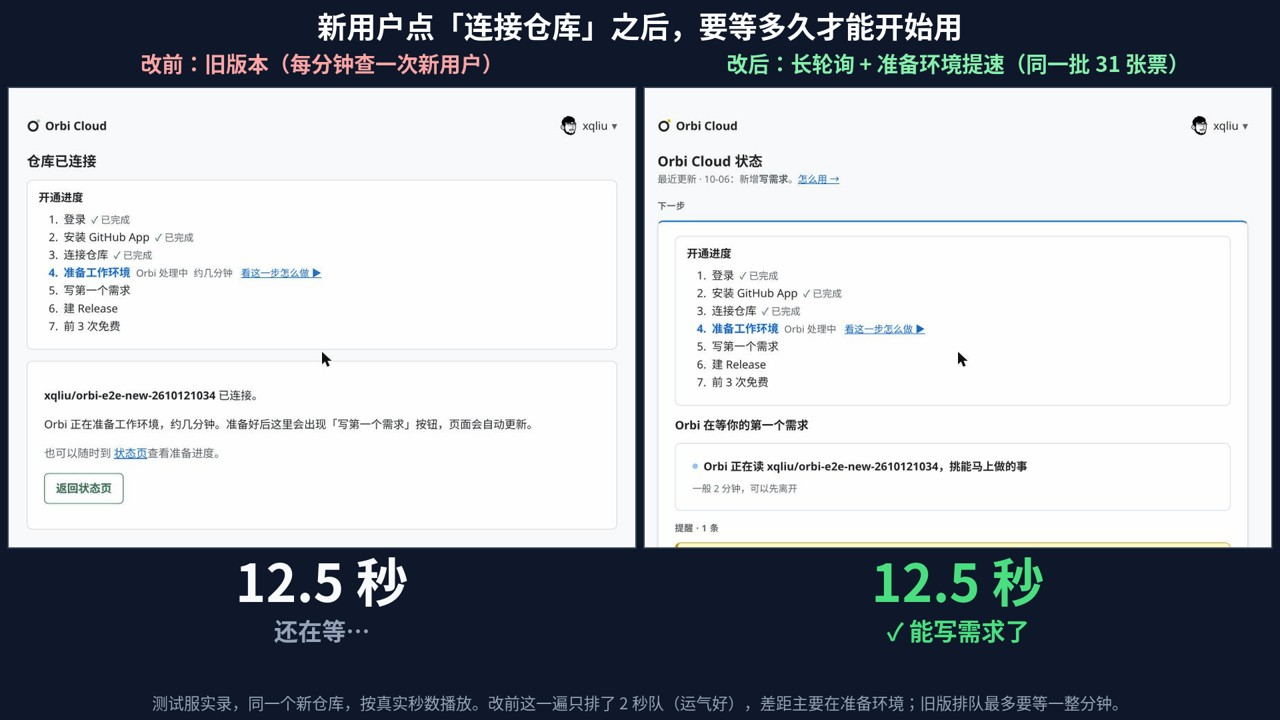
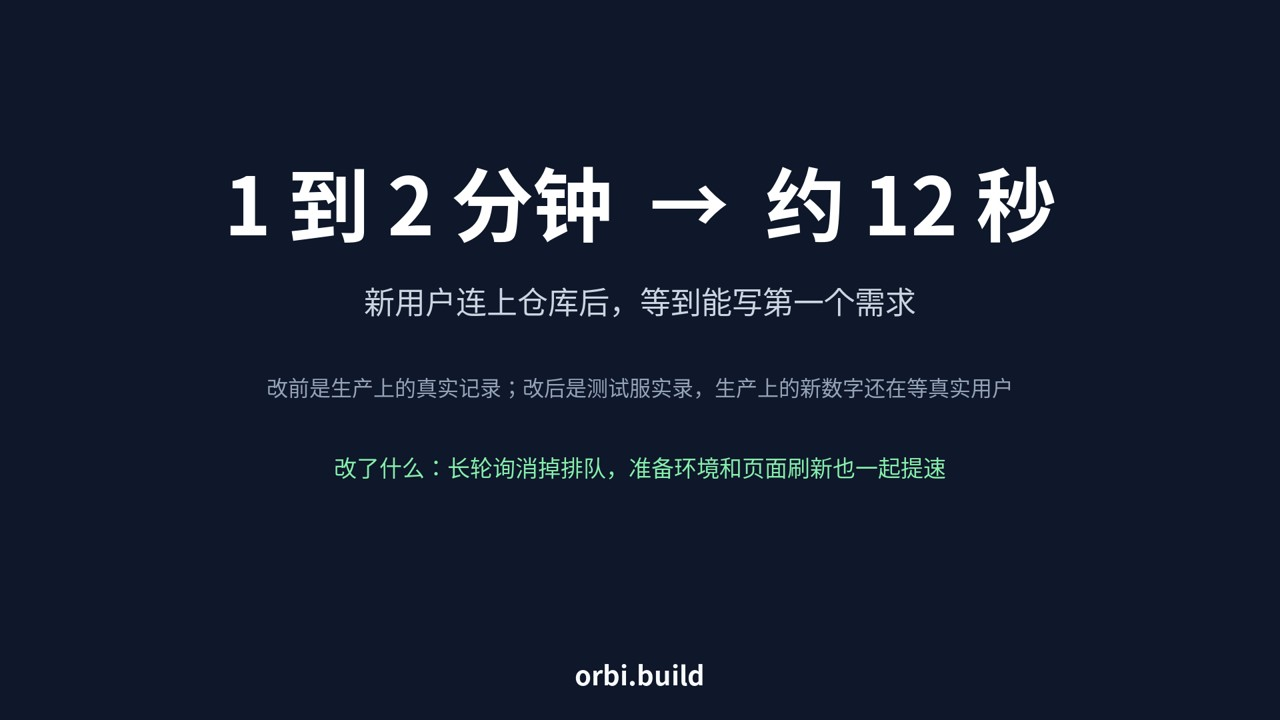
博文：改前改用生产记录（1 到 2 分钟），换第三版视频，中文标题去掉「干等」

diff --git a/public/zh/blog/long-polling-new-user-wait/index.html b/public/zh/blog/long-polling-new-user-wait/index.html
@@ -3,21 +3,21 @@
 <head>
   <meta charset="utf-8">
   <meta name="viewport" content="width=device-width, initial-scale=1">
-  <title>新用户干等从 2 分钟压到 10 秒：长轮询，没加一台机器 | Orbi</title>
+  <title>新用户连上仓库要等一两分钟，我们压到 10 秒：长轮询，没加一台机器 | Orbi</title>
   <meta name="description" content="有个用户在环境已经准备好之后走了，因为页面还没告诉他。我们改用长轮询消掉排队，再抠掉几处准备时间：以前要等一两分钟，现在测试环境上 10 秒左右，机器一台没加。">
   <link rel="canonical" href="https://orbi.build/zh/blog/long-polling-new-user-wait/">
   <link rel="alternate" hreflang="en" href="https://orbi.build/blog/long-polling-new-user-wait/">
   <link rel="alternate" hreflang="zh-CN" href="https://orbi.build/zh/blog/long-polling-new-user-wait/">
   <link rel="alternate" hreflang="x-default" href="https://orbi.build/blog/long-polling-new-user-wait/">
   <meta property="og:type" content="article">
-  <meta property="og:title" content="新用户干等从 2 分钟压到 10 秒：长轮询，没加一台机器">
+  <meta property="og:title" content="新用户连上仓库要等一两分钟，我们压到 10 秒：长轮询，没加一台机器">
   <meta property="og:description" content="有个用户在环境已经准备好之后走了，因为页面还没告诉他。我们改用长轮询消掉排队，再抠掉几处准备时间：以前要等一两分钟，现在测试环境上 10 秒左右，机器一台没加。">
   <meta property="og:url" content="https://orbi.build/zh/blog/long-polling-new-user-wait/">
   <meta property="og:image" content="https://orbi.build/img/blog-longpoll-card.png">
-  <meta property="og:image:alt" content="新用户干等从 2 分钟压到 10 秒：长轮询，没加一台机器">
+  <meta property="og:image:alt" content="新用户连上仓库要等一两分钟，我们压到 10 秒：长轮询，没加一台机器">
   <meta property="article:published_time" content="2026-10-12">
-  <script type="application/ld+json">{"@context":"https://schema.org","@type":"Article","headline":"新用户干等从 2 分钟压到 10 秒：长轮询，没加一台机器","datePublished":"2026-10-12","author":{"@type":"Person","name":"Lawrence Liu","url":"https://orbi.build/zh/about/lawrence-liu/","sameAs":["https://github.com/xqliu","https://x.com/xqliu"]},"publisher":{"@type":"Organization","name":"Orbi","url":"https://orbi.build/","logo":{"@type":"ImageObject","url":"https://orbi.build/logo-mark.svg"}},"mainEntityOfPage":"https://orbi.build/zh/blog/long-polling-new-user-wait/","image":"https://orbi.build/img/blog-longpoll-card.png","inLanguage":"zh-CN","description":"有个用户在环境已经准备好之后走了，因为页面还没告诉他。我们改用长轮询消掉排队，再抠掉几处准备时间：以前要等一两分钟，现在测试环境上 10 秒左右，机器一台没加。","url":"https://orbi.build/zh/blog/long-polling-new-user-wait/"}</script>
-  <script type="application/ld+json">{"@context":"https://schema.org","@type":"VideoObject","name":"新用户等多久：改前约 30 秒，改后约 12 秒｜Orbi Cloud 长轮询实录","description":"左边旧版本，主机每分钟才查一次新用户；右边是同一批 31 张票之后的版本，长轮询消掉排队，准备环境和页面刷新也一起提速。同一个全新仓库，测试服实录，按真实秒数播放：约 30 秒对约 12 秒。","thumbnailUrl":"https://orbi.build/img/blog-longpoll-video-zh.jpg","uploadDate":"2026-10-12","duration":"PT39S","embedUrl":"https://www.youtube.com/embed/bN8amYpOo8c"}</script>
+  <script type="application/ld+json">{"@context":"https://schema.org","@type":"Article","headline":"新用户连上仓库要等一两分钟，我们压到 10 秒：长轮询，没加一台机器","datePublished":"2026-10-12","author":{"@type":"Person","name":"Lawrence Liu","url":"https://orbi.build/zh/about/lawrence-liu/","sameAs":["https://github.com/xqliu","https://x.com/xqliu"]},"publisher":{"@type":"Organization","name":"Orbi","url":"https://orbi.build/","logo":{"@type":"ImageObject","url":"https://orbi.build/logo-mark.svg"}},"mainEntityOfPage":"https://orbi.build/zh/blog/long-polling-new-user-wait/","image":"https://orbi.build/img/blog-longpoll-card.png","inLanguage":"zh-CN","description":"有个用户在环境已经准备好之后走了，因为页面还没告诉他。我们改用长轮询消掉排队，再抠掉几处准备时间：以前要等一两分钟，现在测试环境上 10 秒左右，机器一台没加。","url":"https://orbi.build/zh/blog/long-polling-new-user-wait/"}</script>
+  <script type="application/ld+json">{"@context":"https://schema.org","@type":"VideoObject","name":"新用户连上仓库要等多久：改前 1 到 2 分钟，改后约 12 秒｜Orbi Cloud","description":"开头是改前：生产上的真实记录，新用户连上仓库后一般要等 1 分钟左右，最慢 2 分多钟，页面上只有一句「约几分钟」。后面是改后在测试服上的实录，按真实秒数播放：约 12 秒就能写第一个需求。","thumbnailUrl":"https://orbi.build/img/blog-longpoll-video-zh.jpg","uploadDate":"2026-10-12","duration":"PT43S","embedUrl":"https://www.youtube.com/embed/JLmbpUKHCGY"}</script>
   <link rel="icon" href="/favicon.svg" type="image/svg+xml">
   <meta name="theme-color" content="#06151b">
 
@@ -153,7 +153,7 @@
       <div class="post-grid">
         <section class="post-hero" aria-labelledby="post-title">
           <p class="eyebrow">博客</p>
-          <h1 id="post-title">新用户干等从 2 分钟压到 10 秒：长轮询，没加一台机器</h1>
+          <h1 id="post-title">新用户连上仓库要等一两分钟，我们压到 10 秒：长轮询，没加一台机器</h1>
           <p class="post-byline"><a href="/zh/about/lawrence-liu/">Lawrence Liu</a> · <time datetime="2026-10-12">2026-10-12</time></p>
 
           <p class="hero-lede">有个用户在环境已经准备好之后走了，因为页面还没告诉他。我们改用长轮询消掉排队，再抠掉几处准备时间：以前要等一两分钟，现在测试环境上 10 秒左右，机器一台没加。</p>
@@ -168,7 +168,7 @@
           <li><a class="post-toc-link" href="#先拆开看-时间到底花在哪">先拆开看，时间到底花在哪</a></li>
           <li><a class="post-toc-link" href="#新用户排在一个刷新任务后面">新用户排在一个刷新任务后面</a></li>
           <li><a class="post-toc-link" href="#从-问得更勤-到长轮询">从「问得更勤」到长轮询</a></li>
-          <li><a class="post-toc-link" href="#一句-能不能再薄一点-删掉了一个程序">一句「能不能再薄一点」，删掉了一个程序</a></li>
+          <li><a class="post-toc-link" href="#给开通脚本加一个开关-不再新写程序">给开通脚本加一个开关，不再新写程序</a></li>
           <li><a class="post-toc-link" href="#审查早就提醒过的-bug">审查早就提醒过的 bug</a></li>
           <li><a class="post-toc-link" href="#剩下的时间也一点点抠出来">剩下的时间也一点点抠出来</a></li>
           <li><a class="post-toc-link" href="#等的那十几秒-给人看什么">等的那十几秒，给人看什么</a></li>
@@ -185,7 +185,7 @@
           <li><a class="post-toc-link" href="#先拆开看-时间到底花在哪">先拆开看，时间到底花在哪</a></li>
           <li><a class="post-toc-link" href="#新用户排在一个刷新任务后面">新用户排在一个刷新任务后面</a></li>
           <li><a class="post-toc-link" href="#从-问得更勤-到长轮询">从「问得更勤」到长轮询</a></li>
-          <li><a class="post-toc-link" href="#一句-能不能再薄一点-删掉了一个程序">一句「能不能再薄一点」，删掉了一个程序</a></li>
+          <li><a class="post-toc-link" href="#给开通脚本加一个开关-不再新写程序">给开通脚本加一个开关，不再新写程序</a></li>
           <li><a class="post-toc-link" href="#审查早就提醒过的-bug">审查早就提醒过的 bug</a></li>
           <li><a class="post-toc-link" href="#剩下的时间也一点点抠出来">剩下的时间也一点点抠出来</a></li>
           <li><a class="post-toc-link" href="#等的那十几秒-给人看什么">等的那十几秒，给人看什么</a></li>
@@ -199,7 +199,7 @@
 <p>他走的时候，环境其实已经准备好了。页面每 10 秒才刷新一次，还没来得及告诉他。</p><aside class="post-cta-inline"><span>Orbi 把你的 Issue 一路做到发版。</span><a class="button button-signal" data-cta="post-inline-start" href="/zh/cloud/login">免费试 __FREE_DELIVERIES__ 次 →</a></aside>
 <p>那天夜里我开始查这件事。我做规划用的 AI 助手 Claude Code 告诉我，准备环境「要 5 分钟左右」。我回它：5 分钟，一个操作系统都装好了。</p>
 <p>查下来，这一步一般要一分钟左右，慢的时候两分多钟。一夜之后，测试环境上变成了 10 秒左右。改动拆成 31 张票，全是 Orbi 自己写、自己评审、自己合并的（Orbi 是我在做的产品，agent 时代的软件黑灯工厂：从 Issue 到发版，不用人守着）。中间还撞上了一个 bug：审查早就点过名，我们觉得没必要修，当天晚上就撞上了。</p>
-<figure class="post-media"><iframe src="https://www.youtube.com/embed/bN8amYpOo8c" title="新用户等多久：改前约 30 秒，改后约 12 秒" loading="lazy" allow="accelerometer; autoplay; clipboard-write; encrypted-media; gyroscope; picture-in-picture" allowfullscreen></iframe><figcaption>左边旧版本，右边是同一批 31 张票之后的版本，同一个新仓库在测试服上实录，按真实秒数播放：从点「连接仓库」到能写第一个需求，约 30 秒对约 12 秒。旧版这一遍运气好，只排了 2 秒队，差出来的主要是准备环境的时间；生产上以前整段要一两分钟。</figcaption></figure><p>后面会反复出现两样东西：Cloud 是我们的网站，用户在这里登录、连仓库；主机是我们自己的一台机器，给每个连上的仓库建一个沙箱。为了安全，主机只能往外连，Cloud 没法直接叫它。</p>
+<figure class="post-media"><iframe src="https://www.youtube.com/embed/JLmbpUKHCGY" title="新用户连上仓库要等多久：改前 1 到 2 分钟，改后约 12 秒" loading="lazy" allow="accelerometer; autoplay; clipboard-write; encrypted-media; gyroscope; picture-in-picture" allowfullscreen></iframe><figcaption>都从点「连接仓库」算起，算到环境就绪、能写第一个需求。改前是生产上的真实记录：一般 1 分钟左右，最慢 2 分多钟，页面上只有一句「约几分钟」。改后是测试环境上的实录，按真实秒数播放：约 12 秒。</figcaption></figure><p>后面会反复出现两样东西：Cloud 是我们的网站，用户在这里登录、连仓库；主机是我们自己的一台机器，给每个连上的仓库建一个沙箱。为了安全，主机只能往外连，Cloud 没法直接叫它。</p>
 <h2 id="先拆开看-时间到底花在哪">先拆开看，时间到底花在哪</h2>
 <p>我们从数据库里拉出时间戳，把这一分钟拆成几段：</p>
 <div class="post-table-scroll"><table class="table-stack">
@@ -264,7 +264,7 @@
 </tbody></table></div>
 <p>选了长轮询。GitHub 的自托管执行器也是这么干的：执行器<a href="https://docs.github.com/en/enterprise-server@3.12/actions/hosting-your-own-runners/managing-self-hosted-runners/communicating-with-self-hosted-runners">向 GitHub 挂一个 50 秒的长轮询</a>，超时就再挂一个，外面不需要能连进来。我们的主机处境一样：能往外连，外面连不进来。</p>
 <p>Cloud 这边加了一个接口：请求最多挂 20 秒，每秒看一次有没有新用户。它只接新来的请求，失败了要重试的老请求还走原来每分钟那一轮，不然一次小故障就会让同一个请求几秒内把重试机会用光。这一条是动手写代码之前，独立审查查出来的。</p>
-<h2 id="一句-能不能再薄一点-删掉了一个程序">一句「能不能再薄一点」，删掉了一个程序</h2>
+<h2 id="给开通脚本加一个开关-不再新写程序">给开通脚本加一个开关，不再新写程序</h2>
 <p>第一版设计是在主机上新写一个常驻的 Python 程序，循环挂长轮询、接请求、再去调开通脚本。部署脚本得学会第一次启用它、代码一更新就重启它，它还要配一套自己的测试。</p>
 <p>Orbi 已经按这一版开工了，我问：能不能再薄一点？</p>
 <p>回头看现有的开通脚本，发现根本不用新程序。它可以同时跑两份；刷新是一整段，可以整段跳过；新接口返回的东西和原来的清单一模一样。于是只给脚本加了一个开关 <code class="post-code--single">--claim-only</code>：跳过刷新，改去挂长轮询，接到请求后，开通的代码全部照旧。跑一轮就退出。</p>

diff --git a/public/blog/long-polling-new-user-wait/index.html b/public/blog/long-polling-new-user-wait/index.html
@@ -3,21 +3,21 @@
 <head>
   <meta charset="utf-8">
   <meta name="viewport" content="width=device-width, initial-scale=1">
-  <title>New users waited 2 min; long polling made it 10 s | Orbi</title>
+  <title>New users waited 1–2 min; long polling made it 10 s | Orbi</title>
   <meta name="description" content="One new user left our preparing page after their workspace was already ready. Long polling and a handful of small fixes cut the wait to about 10 seconds.">
   <link rel="canonical" href="https://orbi.build/blog/long-polling-new-user-wait/">
   <link rel="alternate" hreflang="en" href="https://orbi.build/blog/long-polling-new-user-wait/">
   <link rel="alternate" hreflang="zh-CN" href="https://orbi.build/zh/blog/long-polling-new-user-wait/">
   <link rel="alternate" hreflang="x-default" href="https://orbi.build/blog/long-polling-new-user-wait/">
   <meta property="og:type" content="article">
-  <meta property="og:title" content="New users waited 2 min; long polling made it 10 s">
+  <meta property="og:title" content="New users waited 1–2 min; long polling made it 10 s">
   <meta property="og:description" content="One new user left our preparing page after their workspace was already ready. Long polling and a handful of small fixes cut the wait to about 10 seconds.">
   <meta property="og:url" content="https://orbi.build/blog/long-polling-new-user-wait/">
   <meta property="og:image" content="https://orbi.build/img/blog-longpoll-card.png">
-  <meta property="og:image:alt" content="New users waited 2 min; long polling made it 10 s">
+  <meta property="og:image:alt" content="New users waited 1–2 min; long polling made it 10 s">
   <meta property="article:published_time" content="2026-10-12">
-  <script type="application/ld+json">{"@context":"https://schema.org","@type":"Article","headline":"New users waited 2 min; long polling made it 10 s","datePublished":"2026-10-12","author":{"@type":"Person","name":"Lawrence Liu","url":"https://orbi.build/about/lawrence-liu/","sameAs":["https://github.com/xqliu","https://x.com/xqliu"]},"publisher":{"@type":"Organization","name":"Orbi","url":"https://orbi.build/","logo":{"@type":"ImageObject","url":"https://orbi.build/logo-mark.svg"}},"mainEntityOfPage":"https://orbi.build/blog/long-polling-new-user-wait/","image":"https://orbi.build/img/blog-longpoll-card.png","inLanguage":"en","description":"One new user left our preparing page after their workspace was already ready. Long polling and a handful of small fixes cut the wait to about 10 seconds.","url":"https://orbi.build/blog/long-polling-new-user-wait/"}</script>
-  <script type="application/ld+json">{"@context":"https://schema.org","@type":"VideoObject","name":"How long a new user waits: ~30 s before, ~12 s after | Orbi Cloud long polling","description":"Left, the old version where the host checked for new users once a minute; right, the version after the same 31 tickets, where long polling removed the queue and setup and page refresh got faster too. Same fresh repository on our test server, played back in real time, about 30 s versus about 12 s.","thumbnailUrl":"https://orbi.build/img/blog-longpoll-video-en.jpg","uploadDate":"2026-10-12","duration":"PT39S","embedUrl":"https://www.youtube.com/embed/eGTSUMYc6jk"}</script>
+  <script type="application/ld+json">{"@context":"https://schema.org","@type":"Article","headline":"New users waited 1–2 min; long polling made it 10 s","datePublished":"2026-10-12","author":{"@type":"Person","name":"Lawrence Liu","url":"https://orbi.build/about/lawrence-liu/","sameAs":["https://github.com/xqliu","https://x.com/xqliu"]},"publisher":{"@type":"Organization","name":"Orbi","url":"https://orbi.build/","logo":{"@type":"ImageObject","url":"https://orbi.build/logo-mark.svg"}},"mainEntityOfPage":"https://orbi.build/blog/long-polling-new-user-wait/","image":"https://orbi.build/img/blog-longpoll-card.png","inLanguage":"en","description":"One new user left our preparing page after their workspace was already ready. Long polling and a handful of small fixes cut the wait to about 10 seconds.","url":"https://orbi.build/blog/long-polling-new-user-wait/"}</script>
+  <script type="application/ld+json">{"@context":"https://schema.org","@type":"VideoObject","name":"How long new users wait after connecting a repo: 1–2 min before, ~12 s after | Orbi Cloud","description":"First the before, from production records: after connecting a repository, new users usually waited about a minute and over two on a bad day, looking at a page that only said “a few minutes”. Then the after, recorded on our test server in real time: about 12 seconds until the workspace is ready for a first task.","thumbnailUrl":"https://orbi.build/img/blog-longpoll-video-en.jpg","uploadDate":"2026-10-12","duration":"PT43S","embedUrl":"https://www.youtube.com/embed/YpaOJxtK7HA"}</script>
   <link rel="icon" href="/favicon.svg" type="image/svg+xml">
   <meta name="theme-color" content="#06151b">
 
@@ -153,7 +153,7 @@
       <div class="post-grid">
         <section class="post-hero" aria-labelledby="post-title">
           <p class="eyebrow">Blog</p>
-          <h1 id="post-title">New users waited 2 min; long polling made it 10 s</h1>
+          <h1 id="post-title">New users waited 1–2 min; long polling made it 10 s</h1>
           <p class="post-byline"><a href="/about/lawrence-liu/">Lawrence Liu</a> · <time datetime="2026-10-12">2026-10-12</time></p>
 
           <p class="hero-lede">One new user left our preparing page after their workspace was already ready. Long polling and a handful of small fixes cut the wait to about 10 seconds.</p>
@@ -199,7 +199,7 @@
 <p>When they left, the workspace was already ready. The page only refreshed every 10 seconds and hadn&#39;t told them yet.</p><aside class="post-cta-inline"><span>Orbi takes your Issues all the way to a release.</span><a class="button button-signal" data-cta="post-inline-start" href="/cloud/login">Try __FREE_DELIVERIES__ deliveries free →</a></aside>
 <p>I started digging that night. Claude Code, the AI assistant I plan work with, told me preparing a workspace took &quot;about five minutes&quot;. I said five minutes is long enough to install an operating system.</p>
 <p>It turned out to be about a minute on a normal day and over two minutes on a bad one. One night later, on our test server, it was about 10 seconds. The fix was 31 tickets; Orbi wrote the code for every one, reviewed it and merged it (Orbi is what I&#39;m building: a lights-out software factory that takes an Issue to a release without anyone watching). Along the way we hit a bug that review had warned us about, which we&#39;d decided wasn&#39;t worth fixing. It bit us the same evening.</p>
-<figure class="post-media"><iframe src="https://www.youtube.com/embed/eGTSUMYc6jk" title="How long a new user waits: ~30 s before, ~12 s after" loading="lazy" allow="accelerometer; autoplay; clipboard-write; encrypted-media; gyroscope; picture-in-picture" allowfullscreen></iframe><figcaption>Old version on the left; on the right, the version after the same 31 tickets. Same fresh repository on our test server, played back in real time: from clicking “Connect repository” to being able to write a first request, about 30 seconds versus about 12. The old run got lucky and queued for only 2 seconds, so most of the gap is setup time; in production the whole wait used to be a minute or two.</figcaption></figure><p>Two pieces matter for the rest of the story. Cloud is our website, where users sign in and connect repositories. The host is a machine of ours that runs a sandbox for each connected repository; for security it can only connect outward, so Cloud can never call it directly.</p>
+<figure class="post-media"><iframe src="https://www.youtube.com/embed/YpaOJxtK7HA" title="How long new users wait after connecting a repo: 1–2 min before, ~12 s after" loading="lazy" allow="accelerometer; autoplay; clipboard-write; encrypted-media; gyroscope; picture-in-picture" allowfullscreen></iframe><figcaption>Both are timed from clicking “Connect repository” until the workspace is ready and the user can hand Orbi a first task. Before, from production records: about a minute on a normal day and over two minutes on a bad one, on a page that only said “a few minutes”. After, recorded on our test server and played back in real time: about 12 seconds.</figcaption></figure><p>Two pieces matter for the rest of the story. Cloud is our website, where users sign in and connect repositories. The host is a machine of ours that runs a sandbox for each connected repository; for security it can only connect outward, so Cloud can never call it directly.</p>
 <h2 id="first-find-out-where-the-minute-goes">First, find out where the minute goes</h2>
 <p>We pulled timestamps from the database and split the wait into pieces:</p>
 <div class="post-table-scroll"><table class="table-stack">

diff --git a/public/zh/about/lawrence-liu/index.html b/public/zh/about/lawrence-liu/index.html
@@ -90,7 +90,7 @@
     <section class="compare-section shell" aria-label="Lawrence Liu 的文章">
       <div class="post-list">
     <article class="post-entry">
-      <h2 class="post-entry-title"><a href="/zh/blog/long-polling-new-user-wait/">新用户干等从 2 分钟压到 10 秒：长轮询，没加一台机器</a></h2>
+      <h2 class="post-entry-title"><a href="/zh/blog/long-polling-new-user-wait/">新用户连上仓库要等一两分钟，我们压到 10 秒：长轮询，没加一台机器</a></h2>
       <p class="post-entry-meta"><time datetime="2026-10-12">2026-10-12</time></p>
       <p class="post-entry-summary">有个用户在环境已经准备好之后走了，因为页面还没告诉他。我们改用长轮询消掉排队，再抠掉几处准备时间：以前要等一两分钟，现在测试环境上 10 秒左右，机器一台没加。</p>
     </article>

diff --git a/public/zh/blog/index.html b/public/zh/blog/index.html
@@ -77,7 +77,7 @@
     <section class="compare-section shell" aria-label="文章列表">
       <div class="post-list">
     <article class="post-entry">
-      <h2 class="post-entry-title"><a href="/zh/blog/long-polling-new-user-wait/">新用户干等从 2 分钟压到 10 秒：长轮询，没加一台机器</a></h2>
+      <h2 class="post-entry-title"><a href="/zh/blog/long-polling-new-user-wait/">新用户连上仓库要等一两分钟，我们压到 10 秒：长轮询，没加一台机器</a></h2>
       <p class="post-entry-meta"><time datetime="2026-10-12">2026-10-12</time></p>
       <p class="post-entry-summary">有个用户在环境已经准备好之后走了，因为页面还没告诉他。我们改用长轮询消掉排队，再抠掉几处准备时间：以前要等一两分钟，现在测试环境上 10 秒左右，机器一台没加。</p>
     </article>

diff --git a/public/about/lawrence-liu/index.html b/public/about/lawrence-liu/index.html
@@ -90,7 +90,7 @@
     <section class="compare-section shell" aria-label="Posts by Lawrence Liu">
       <div class="post-list">
     <article class="post-entry">
-      <h2 class="post-entry-title"><a href="/blog/long-polling-new-user-wait/">New users waited 2 min; long polling made it 10 s</a></h2>
+      <h2 class="post-entry-title"><a href="/blog/long-polling-new-user-wait/">New users waited 1–2 min; long polling made it 10 s</a></h2>
       <p class="post-entry-meta"><time datetime="2026-10-12">2026-10-12</time></p>
       <p class="post-entry-summary">One new user left our preparing page after their workspace was already ready. Long polling and a handful of small fixes cut the wait to about 10 seconds.</p>
     </article>

diff --git a/public/blog/index.html b/public/blog/index.html
@@ -78,7 +78,7 @@
     <section class="compare-section shell" aria-label="Posts">
       <div class="post-list">
     <article class="post-entry">
-      <h2 class="post-entry-title"><a href="/blog/long-polling-new-user-wait/">New users waited 2 min; long polling made it 10 s</a></h2>
+      <h2 class="post-entry-title"><a href="/blog/long-polling-new-user-wait/">New users waited 1–2 min; long polling made it 10 s</a></h2>
       <p class="post-entry-meta"><time datetime="2026-10-12">2026-10-12</time></p>
       <p class="post-entry-summary">One new user left our preparing page after their workspace was already ready. Long polling and a handful of small fixes cut the wait to about 10 seconds.</p>
     </article>

diff --git a/content/blog/zh/long-polling-new-user-wait.md b/content/blog/zh/long-polling-new-user-wait.md
@@ -1,17 +1,17 @@
 ---
-title: 新用户干等从 2 分钟压到 10 秒：长轮询，没加一台机器
+title: 新用户连上仓库要等一两分钟，我们压到 10 秒：长轮询，没加一台机器
 date: 2026-10-12
 summary: 有个用户在环境已经准备好之后走了，因为页面还没告诉他。我们改用长轮询消掉排队，再抠掉几处准备时间：以前要等一两分钟，现在测试环境上 10 秒左右，机器一台没加。
 lang: zh
 author: Lawrence Liu
 image: /img/blog-longpoll-card.png
 mirror: long-polling-new-user-wait
-video_name: 新用户等多久：改前约 30 秒，改后约 12 秒｜Orbi Cloud 长轮询实录
-video_description: 左边旧版本，主机每分钟才查一次新用户；右边是同一批 31 张票之后的版本，长轮询消掉排队，准备环境和页面刷新也一起提速。同一个全新仓库，测试服实录，按真实秒数播放：约 30 秒对约 12 秒。
+video_name: 新用户连上仓库要等多久：改前 1 到 2 分钟，改后约 12 秒｜Orbi Cloud
+video_description: 开头是改前：生产上的真实记录，新用户连上仓库后一般要等 1 分钟左右，最慢 2 分多钟，页面上只有一句「约几分钟」。后面是改后在测试服上的实录，按真实秒数播放：约 12 秒就能写第一个需求。
 video_thumbnail: /img/blog-longpoll-video-zh.jpg
 video_upload_date: 2026-10-12
-video_duration: PT39S
-video_embed_url: https://www.youtube.com/embed/bN8amYpOo8c
+video_duration: PT43S
+video_embed_url: https://www.youtube.com/embed/JLmbpUKHCGY
 ---
 
 有个新用户在 Orbi Cloud 上连好了仓库，页面显示「正在准备工作环境」。他等了一会儿，走了。
@@ -22,7 +22,7 @@ video_embed_url: https://www.youtube.com/embed/bN8amYpOo8c
 
 查下来，这一步一般要一分钟左右，慢的时候两分多钟。一夜之后，测试环境上变成了 10 秒左右。改动拆成 31 张票，全是 Orbi 自己写、自己评审、自己合并的（Orbi 是我在做的产品，agent 时代的软件黑灯工厂：从 Issue 到发版，不用人守着）。中间还撞上了一个 bug：审查早就点过名，我们觉得没必要修，当天晚上就撞上了。
 
-<figure class="post-media"><iframe src="https://www.youtube.com/embed/bN8amYpOo8c" title="新用户等多久：改前约 30 秒，改后约 12 秒" loading="lazy" allow="accelerometer; autoplay; clipboard-write; encrypted-media; gyroscope; picture-in-picture" allowfullscreen></iframe><figcaption>左边旧版本，右边是同一批 31 张票之后的版本，同一个新仓库在测试服上实录，按真实秒数播放：从点「连接仓库」到能写第一个需求，约 30 秒对约 12 秒。旧版这一遍运气好，只排了 2 秒队，差出来的主要是准备环境的时间；生产上以前整段要一两分钟。</figcaption></figure>
+<figure class="post-media"><iframe src="https://www.youtube.com/embed/JLmbpUKHCGY" title="新用户连上仓库要等多久：改前 1 到 2 分钟，改后约 12 秒" loading="lazy" allow="accelerometer; autoplay; clipboard-write; encrypted-media; gyroscope; picture-in-picture" allowfullscreen></iframe><figcaption>都从点「连接仓库」算起，算到环境就绪、能写第一个需求。改前是生产上的真实记录：一般 1 分钟左右，最慢 2 分多钟，页面上只有一句「约几分钟」。改后是测试环境上的实录，按真实秒数播放：约 12 秒。</figcaption></figure>
 
 后面会反复出现两样东西：Cloud 是我们的网站，用户在这里登录、连仓库；主机是我们自己的一台机器，给每个连上的仓库建一个沙箱。为了安全，主机只能往外连，Cloud 没法直接叫它。
 
@@ -69,7 +69,7 @@ Claude Code 把两件事混在了一起：准备环境大约一分钟，看到 O
 
 Cloud 这边加了一个接口：请求最多挂 20 秒，每秒看一次有没有新用户。它只接新来的请求，失败了要重试的老请求还走原来每分钟那一轮，不然一次小故障就会让同一个请求几秒内把重试机会用光。这一条是动手写代码之前，独立审查查出来的。
 
-## 一句「能不能再薄一点」，删掉了一个程序
+## 给开通脚本加一个开关，不再新写程序
 
 第一版设计是在主机上新写一个常驻的 Python 程序，循环挂长轮询、接请求、再去调开通脚本。部署脚本得学会第一次启用它、代码一更新就重启它，它还要配一套自己的测试。
 

diff --git a/content/blog/long-polling-new-user-wait.md b/content/blog/long-polling-new-user-wait.md
@@ -1,17 +1,17 @@
 ---
-title: New users waited 2 min; long polling made it 10 s
+title: New users waited 1–2 min; long polling made it 10 s
 date: 2026-10-12
 summary: One new user left our preparing page after their workspace was already ready. Long polling and a handful of small fixes cut the wait to about 10 seconds.
 lang: en
 author: Lawrence Liu
 image: /img/blog-longpoll-card.png
 mirror: long-polling-new-user-wait
-video_name: How long a new user waits: ~30 s before, ~12 s after | Orbi Cloud long polling
-video_description: Left, the old version where the host checked for new users once a minute; right, the version after the same 31 tickets, where long polling removed the queue and setup and page refresh got faster too. Same fresh repository on our test server, played back in real time, about 30 s versus about 12 s.
+video_name: How long new users wait after connecting a repo: 1–2 min before, ~12 s after | Orbi Cloud
+video_description: First the before, from production records: after connecting a repository, new users usually waited about a minute and over two on a bad day, looking at a page that only said “a few minutes”. Then the after, recorded on our test server in real time: about 12 seconds until the workspace is ready for a first task.
 video_thumbnail: /img/blog-longpoll-video-en.jpg
 video_upload_date: 2026-10-12
-video_duration: PT39S
-video_embed_url: https://www.youtube.com/embed/eGTSUMYc6jk
+video_duration: PT43S
+video_embed_url: https://www.youtube.com/embed/YpaOJxtK7HA
 ---
 
 A new user connected a repository to Orbi Cloud. The page said "preparing your workspace". They waited a while, then left.
@@ -22,7 +22,7 @@ I started digging that night. Claude Code, the AI assistant I plan work with, to
 
 It turned out to be about a minute on a normal day and over two minutes on a bad one. One night later, on our test server, it was about 10 seconds. The fix was 31 tickets; Orbi wrote the code for every one, reviewed it and merged it (Orbi is what I'm building: a lights-out software factory that takes an Issue to a release without anyone watching). Along the way we hit a bug that review had warned us about, which we'd decided wasn't worth fixing. It bit us the same evening.
 
-<figure class="post-media"><iframe src="https://www.youtube.com/embed/eGTSUMYc6jk" title="How long a new user waits: ~30 s before, ~12 s after" loading="lazy" allow="accelerometer; autoplay; clipboard-write; encrypted-media; gyroscope; picture-in-picture" allowfullscreen></iframe><figcaption>Old version on the left; on the right, the version after the same 31 tickets. Same fresh repository on our test server, played back in real time: from clicking “Connect repository” to being able to write a first request, about 30 seconds versus about 12. The old run got lucky and queued for only 2 seconds, so most of the gap is setup time; in production the whole wait used to be a minute or two.</figcaption></figure>
+<figure class="post-media"><iframe src="https://www.youtube.com/embed/YpaOJxtK7HA" title="How long new users wait after connecting a repo: 1–2 min before, ~12 s after" loading="lazy" allow="accelerometer; autoplay; clipboard-write; encrypted-media; gyroscope; picture-in-picture" allowfullscreen></iframe><figcaption>Both are timed from clicking “Connect repository” until the workspace is ready and the user can hand Orbi a first task. Before, from production records: about a minute on a normal day and over two minutes on a bad one, on a page that only said “a few minutes”. After, recorded on our test server and played back in real time: about 12 seconds.</figcaption></figure>
 
 Two pieces matter for the rest of the story. Cloud is our website, where users sign in and connect repositories. The host is a machine of ours that runs a sandbox for each connected repository; for security it can only connect outward, so Cloud can never call it directly.
 
